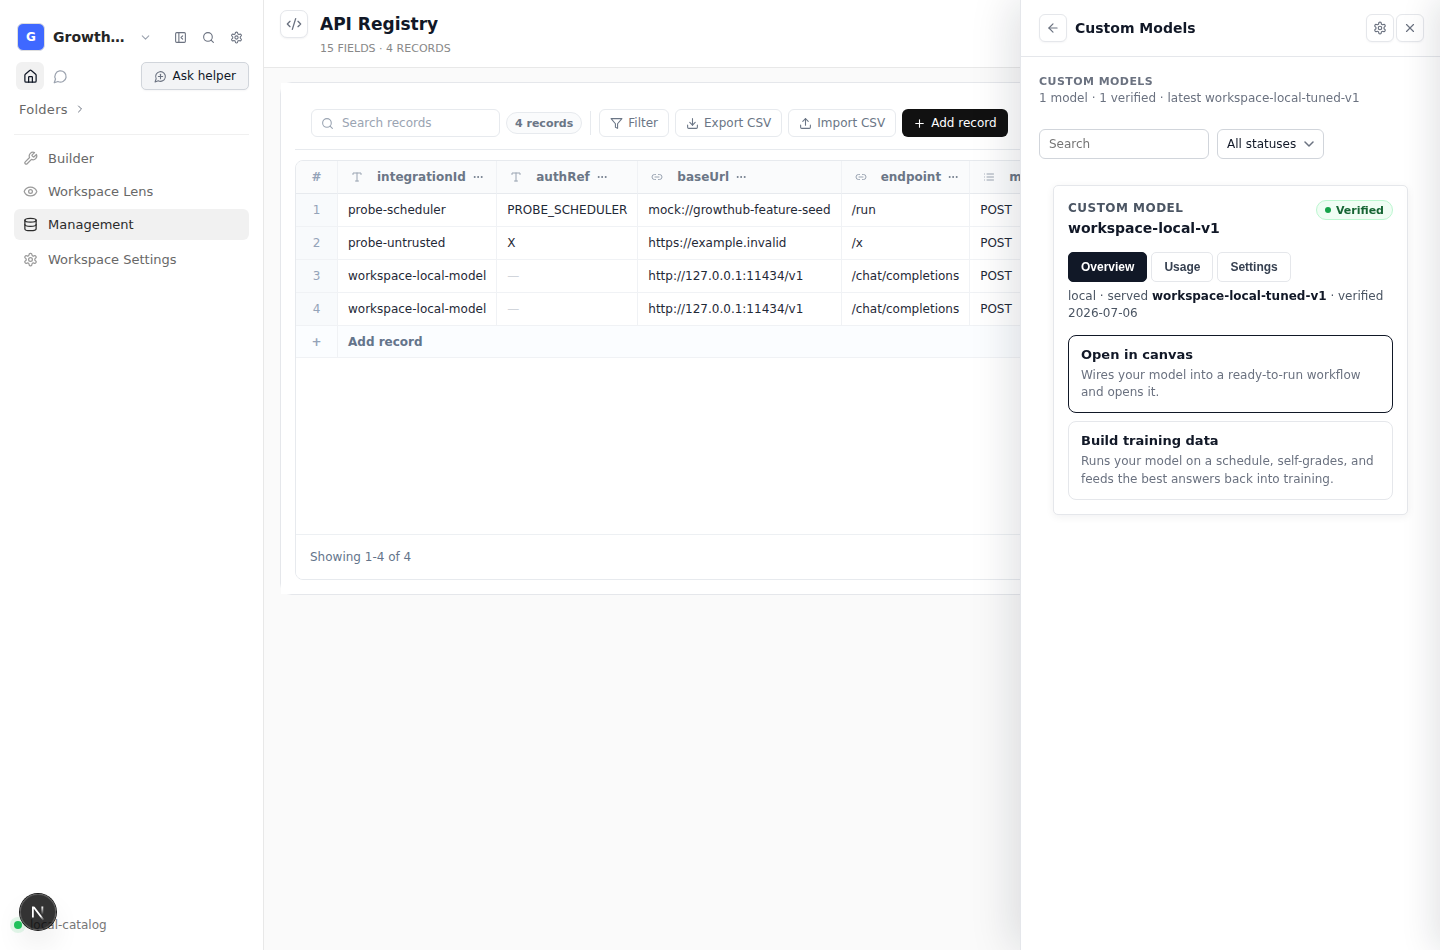
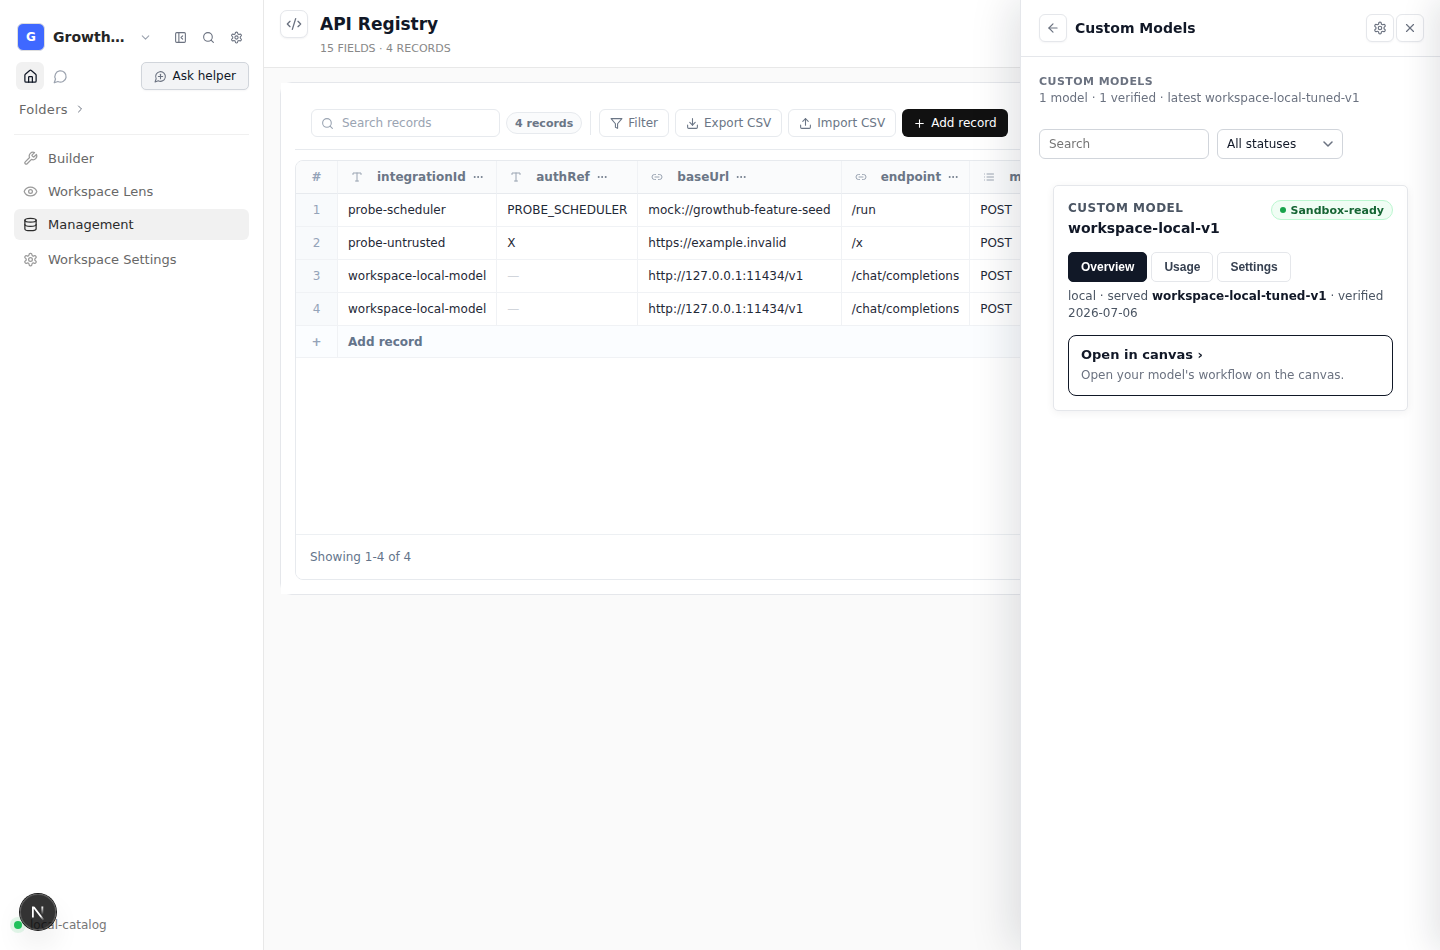
revert(custom-models): roll back the scheduler action — keep the single Open-in-canvas workflow
Per review: a local (loopback) model can't be driven by a serverless
scheduler, so the schedule-trigger action was an honest gap. Remove it
entirely:

- deriveCustomModelFocusActions now returns ONE focused action (Open in
  canvas → chat graph); the Build training data / recursive-learning
  scheduled action is gone from the Overview.
- The workflow-create lane no longer attaches a schedulerCron; the
  custom-model-workflows object drops the schedulerCron column. Rows are
  plain governed workflows, run explicitly via sandbox-run.

The recursive-learning graph remains available as a normal (non-scheduled)
reuse action in the Usage tab. Tests updated; verified live — the cockpit
Overview shows the single Open-in-canvas action (create when absent, open
when the workflow already exists).

Claude-Session: https://claude.ai/code/session_01DyrA4F6zfxs8t3XWh4e6bw

Changed region(s): [[0.75, 0.3663, 0.9688, 0.5189], [0.875, 0.2137, 0.9688, 0.2442]]

diff --git a/cli/assets/worker-kits/growthub-custom-workspace-starter-v1/apps/workspace/lib/custom-models-ledger.js b/cli/assets/worker-kits/growthub-custom-workspace-starter-v1/apps/workspace/lib/custom-models-ledger.js
@@ -428,10 +428,10 @@ export function deriveCustomModelSuggestedActions(model, { workspaceConfig } = {
 }
 
 /**
- * The two FOCUSED first-utilization actions for a live custom model — the
+ * The single FOCUSED first-utilization action for a live custom model — the
  * causation-derived "what do I click to actually use this?" for a non-technical
  * operator. Mirrors the CEO cockpit's sub-atomic worker next-action pattern:
- * each action resolves to one of three governed modes, so a click always DOES
+ * the action resolves to one of three governed modes, so a click always DOES
  * something real (never a dead redirect):
  *
  *   - "create" — the workflow row does not exist yet: clicking POSTs the
@@ -443,10 +443,7 @@ export function deriveCustomModelSuggestedActions(model, { workspaceConfig } = {
  *     tuned tag before a workflow can bind. Honest reason, no fake enablement.
  *
  * `variant` maps to a REAL closed-loop graph from buildCustomModelWorkflowVariants:
- *   open-in-canvas     → chat               (input → model-call → save response)
- *   build-training-data→ recursive-learning (answer → self-grade → write graded
- *                        trace) created on a schedule trigger — a continuous
- *                        feedback loop back into the training corpus.
+ *   open-in-canvas → chat (input → model-call → save response).
  */
 export function deriveCustomModelFocusActions(model, { workspaceConfig } = {}) {
   const verified = model?.verificationStatus === "verified";
@@ -468,11 +465,6 @@ export function deriveCustomModelFocusActions(model, { workspaceConfig } = {}) {
       id: "open-in-canvas", variant: "chat", title: "Open in canvas",
       createHint: "Wires your model into a ready-to-run workflow and opens it.",
       openHint: "Open your model's workflow on the canvas.",
-    },
-    {
-      id: "build-training-data", variant: "recursive-learning", title: "Build training data",
-      createHint: "Runs your model on a schedule, self-grades, and feeds the best answers back into training.",
-      openHint: "Open your recursive training loop.",
     },
   ];
 

diff --git a/cli/assets/worker-kits/growthub-custom-workspace-starter-v1/apps/workspace/lib/custom-model-workflow-proposal.js b/cli/assets/worker-kits/growthub-custom-workspace-starter-v1/apps/workspace/lib/custom-model-workflow-proposal.js
@@ -37,11 +37,6 @@ export const CUSTOM_MODEL_WORKFLOW_VARIANTS = [
   "eval-vs-base",
 ];
 
-// The recursive training-data loop is created with a real schedule trigger so
-// it runs continuously and keeps appending graded traces to the corpus. Daily
-// at 09:00 — a governed default the operator can retune in the Schedule cockpit.
-const RECURSIVE_LEARNING_CRON = "0 9 * * *";
-
 const clean = (value) => String(value == null ? "" : value).trim();
 
 /** Client-built intent proposal — payload carries NO graph, only references. */
@@ -87,7 +82,7 @@ export function ensureCustomModelWorkflowsObject(config) {
     icon: "Workflow",
     columns: [
       "Name", "lifecycleStatus", "runLocality", "runtime", "adapter",
-      "schedulerRegistryId", "schedulerCron", "status", "lastTested", "instructions",
+      "schedulerRegistryId", "status", "lastTested", "instructions",
     ],
     rows: [],
     binding: { mode: "manual", source: CUSTOM_MODEL_WORKFLOWS_LABEL },
@@ -152,18 +147,12 @@ export function normalizeCustomModelWorkflowProposal(proposal, workspaceConfig, 
     return { ok: false, config: workspaceConfig, artifact: null, summary: "", error: `unknown variant "${variant}"` };
   }
 
-  let row = buildCustomModelSandboxRow(model, variant, orchestrationConfig);
-  // The recursive training-data loop carries a real schedule trigger so it runs
-  // continuously — surfaced/retunable in the Schedule cockpit (schedulerCron).
-  if (variant === "recursive-learning") {
-    row = { ...row, schedulerCron: RECURSIVE_LEARNING_CRON };
-  }
-
+  const row = buildCustomModelSandboxRow(model, variant, orchestrationConfig);
   const nextConfig = upsertCustomModelWorkflowRow(workspaceConfig, row);
   return {
     ok: true,
     config: nextConfig,
     artifact: { surface: "workflow", objectId: CUSTOM_MODEL_WORKFLOWS_OBJECT_ID, rowName: row.Name },
-    summary: `Created ${row.Name} bound to ${model.localModel || model.name}${variant === "recursive-learning" ? " (scheduled)" : ""}`,
+    summary: `Created ${row.Name} bound to ${model.localModel || model.name}`,
   };
 }
